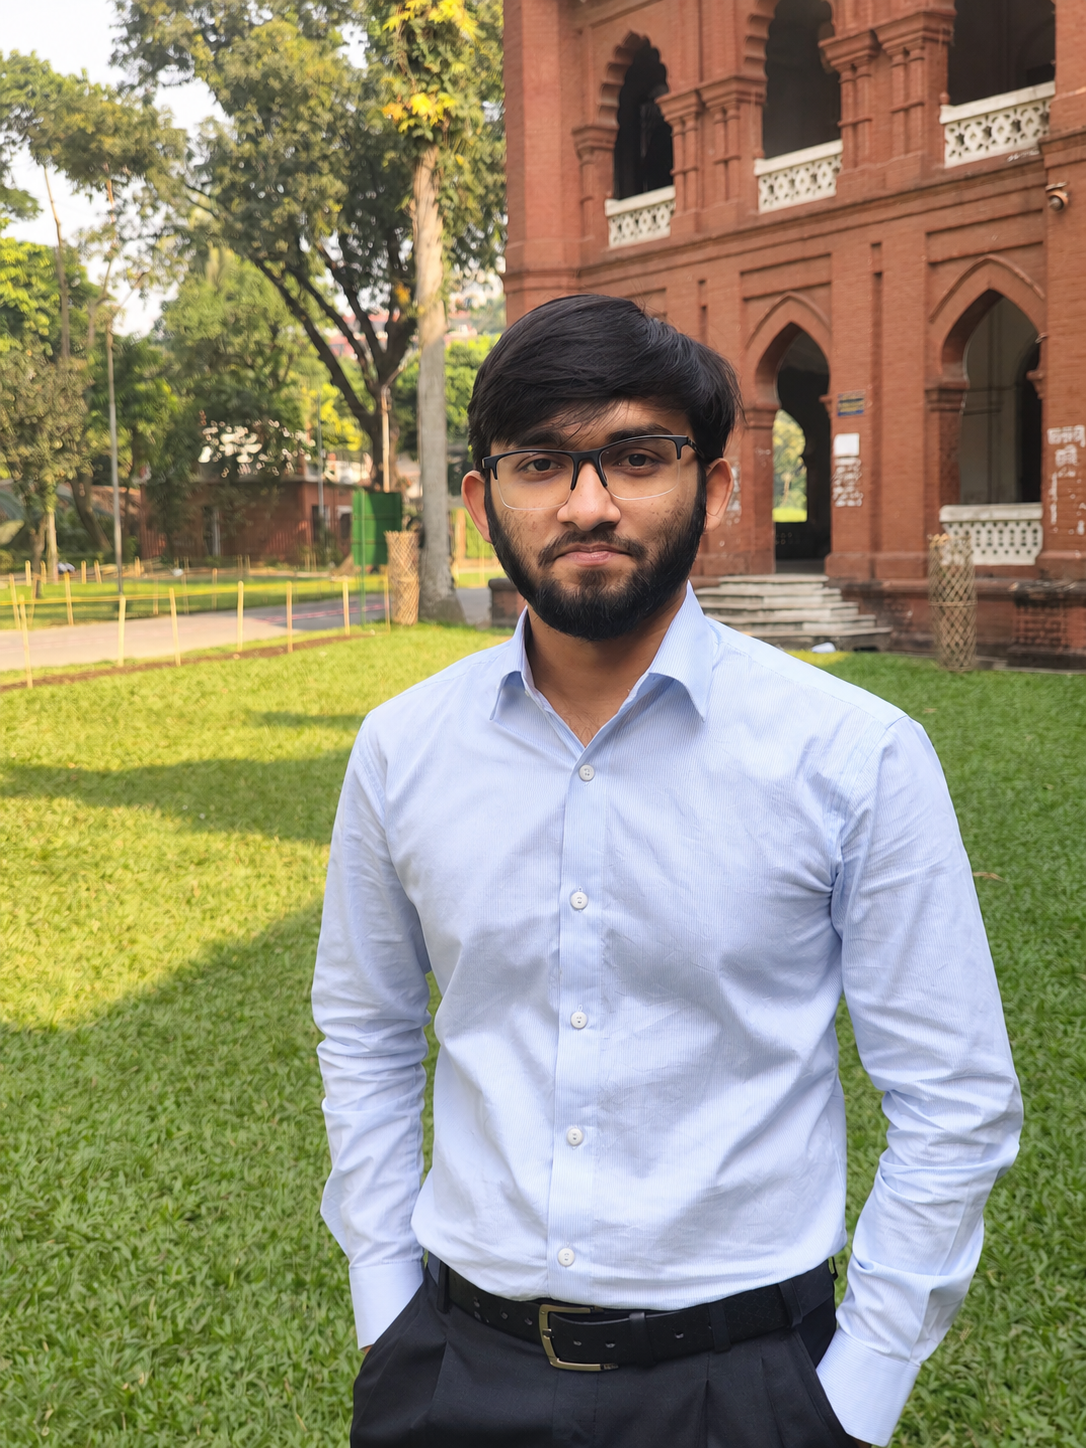
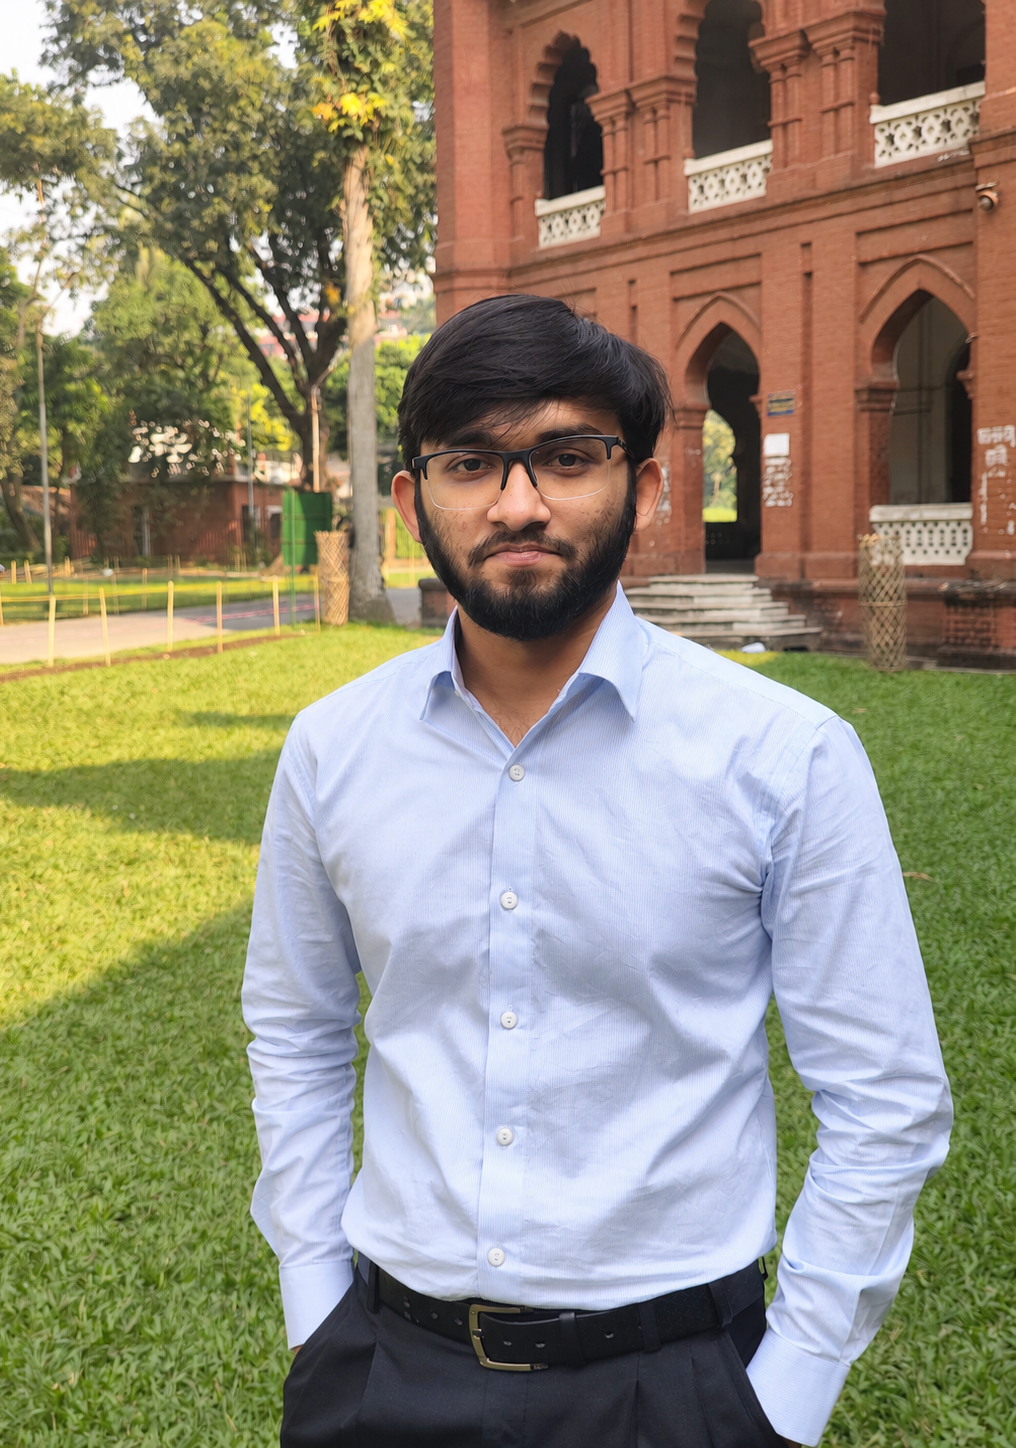
Update hero copy, stats, about section, research cards, team emails, footer

diff --git a/templates/index.html b/templates/index.html
@@ -142,9 +142,9 @@
       <h1>Search Double Perovskite Materials Instantly</h1>
       <p class="hero__tagline">Discovering Tomorrow&rsquo;s Materials Today.</p>
       <p class="hero__lede">
-        AtomAI transforms complex materials data into actionable insights, enabling
-        researchers to explore, validate, and accelerate the discovery of
-        next-generation functional materials.
+        AtomAI uses advanced machine learning to predict material properties
+        before synthesis, helping researchers accelerate discovery while
+        reducing time, cost, and experimental effort.
       </p>
       <div class="hero__cta">
         <a href="#explorer" class="btn">Start Exploring &rarr;</a>
@@ -163,13 +163,13 @@
       </div>
       <div class="stat-card reveal">
         <span class="stat-card__icon"><svg viewBox="0 0 20 20" fill="none"><path d="M10 2L18 7V13L10 18L2 13V7L10 2Z" stroke="currentColor" stroke-width="1.2" stroke-linejoin="round"/></svg></span>
-        <span class="stat-card__num" data-target="3000" data-suffix="+">0</span>
-        <p>Known Double Perovskites</p>
+        <span class="stat-card__num" data-target="4000" data-suffix="+">0</span>
+        <p>Previously known DPOs</p>
       </div>
       <div class="stat-card reveal">
         <span class="stat-card__icon"><svg viewBox="0 0 20 20" fill="none"><rect x="3" y="3" width="14" height="14" rx="3" stroke="currentColor" stroke-width="1.2"/><circle cx="7" cy="7" r="1.1" fill="currentColor"/><circle cx="13" cy="7" r="1.1" fill="currentColor"/><circle cx="7" cy="13" r="1.1" fill="currentColor"/><circle cx="13" cy="13" r="1.1" fill="currentColor"/></svg></span>
-        <span class="stat-card__num" data-target="500" data-suffix="k+">0</span>
-        <p>Predicted Double Perovskite Oxides</p>
+        <span class="stat-card__num" data-target="530" data-suffix="K+">0</span>
+        <p>Predicted DPOs</p>
       </div>
       <div class="stat-card reveal">
         <span class="stat-card__icon"><svg viewBox="0 0 20 20" fill="none"><path d="M4 12L8.5 16.5L17 5" stroke="currentColor" stroke-width="1.6" stroke-linecap="round" stroke-linejoin="round"/></svg></span>
@@ -372,24 +372,27 @@
         <svg viewBox="0 0 20 20" fill="none"><circle cx="10" cy="10" r="2.2" fill="currentColor"/><ellipse cx="10" cy="10" rx="8.5" ry="3.4" stroke="currentColor" stroke-width="1.2"/><ellipse cx="10" cy="10" rx="8.5" ry="3.4" stroke="currentColor" stroke-width="1.2" transform="rotate(60 10 10)"/><ellipse cx="10" cy="10" rx="8.5" ry="3.4" stroke="currentColor" stroke-width="1.2" transform="rotate(120 10 10)"/></svg>
         About AtomAI
       </p>
-      <h2>An AI-driven search engine for materials that don&rsquo;t exist yet.</h2>
-      <p>AtomAI isn&rsquo;t a static database like Materials Project &mdash; it&rsquo;s a screening engine. XGBoost and Random Forest models rank millions of A&#x2082;BB&#x2032;O&#x2086; compositions for stability and band gap, and DFT validates the most promising candidates before synthesis.</p>
-      <p>This explorer is the first public interface to that pipeline: type in four elements, and AtomAI tells you whether a Double Perovskite Oxide is known, predicted, or doesn&rsquo;t exist in the current search space &mdash; and why.</p>
+      <h2>Search Beyond Existing Materials</h2>
+      <p>AtomAI goes beyond traditional materials databases by predicting new Double Perovskite Oxides using AI. Machine learning rapidly screens millions of compositions, while DFT validates the most promising candidates before synthesis.</p>
     </div>
     <div class="split__visual reveal">
       <div class="pipeline">
         <div class="pipeline__line"></div>
         <div class="pipeline__step">
           <span class="pipeline__icon"><svg viewBox="0 0 20 20" fill="none"><rect x="3" y="3" width="14" height="14" rx="3" stroke="currentColor" stroke-width="1.4"/><circle cx="7" cy="7" r="1.2" fill="currentColor"/><circle cx="13" cy="7" r="1.2" fill="currentColor"/><circle cx="7" cy="13" r="1.2" fill="currentColor"/><circle cx="13" cy="13" r="1.2" fill="currentColor"/><path d="M7 7L13 13M13 7L7 13" stroke="currentColor" stroke-width="1"/></svg></span>
-          <div><b>01 &middot; ML Screening</b><small>~5.2M compositions &rarr; candidates</small></div>
+          <div><b>01 &middot; AI-Based Property Prediction</b><small>Predict stability, bandgap, and photocatalytic activity of double perovskite materials using machine learning.</small></div>
         </div>
         <div class="pipeline__step">
           <span class="pipeline__icon"><svg viewBox="0 0 20 20" fill="none"><path d="M10 3L17 7V13L10 17L3 13V7L10 3Z" stroke="currentColor" stroke-width="1.4" stroke-linejoin="round"/></svg></span>
-          <div><b>02 &middot; DFT Validation</b><small>Stability &amp; electronic structure</small></div>
+          <div><b>02 &middot; Curated Materials Database</b><small>Organize validated predictions into a structured, searchable database for rapid access and comparison.</small></div>
         </div>
         <div class="pipeline__step">
-          <span class="pipeline__icon"><svg viewBox="0 0 20 20" fill="none"><path d="M7 3H13V7L16 15C16.5 16.2 15.6 17.5 14.3 17.5H5.7C4.4 17.5 3.5 16.2 4 15L7 7V3Z" stroke="currentColor" stroke-width="1.4" stroke-linejoin="round"/><path d="M6 12H14" stroke="currentColor" stroke-width="1.2"/></svg></span>
-          <div><b>03 &middot; Synthesis &amp; XRD</b><small>Sol-gel, characterization</small></div>
+          <span class="pipeline__icon"><svg viewBox="0 0 20 20" fill="none"><circle cx="9" cy="9" r="6" stroke="currentColor" stroke-width="1.4"/><path d="M13.5 13.5L17.5 17.5" stroke="currentColor" stroke-width="1.4" stroke-linecap="round"/></svg></span>
+          <div><b>03 &middot; Interactive Search Platform</b><small>Search and explore materials by composition, predicted properties, and AI insights through an intuitive interface.</small></div>
+        </div>
+        <div class="pipeline__step">
+          <span class="pipeline__icon"><svg viewBox="0 0 20 20" fill="none"><path d="M10 2L11.8 7.2L17 9L11.8 10.8L10 16L8.2 10.8L3 9L8.2 7.2L10 2Z" stroke="currentColor" stroke-width="1.2" stroke-linejoin="round"/></svg></span>
+          <div><b>04 &middot; New Materials Discovery</b><small>Identify promising, previously unexplored double perovskite candidates for DFT validation and experimental synthesis.</small></div>
         </div>
       </div>
     </div>
@@ -406,24 +409,24 @@
     </div>
     <div class="research-grid">
       <div class="research-card reveal">
-        <span class="research-card__icon"><svg viewBox="0 0 24 24" fill="none"><path d="M9 3H15V8L19.5 17C20.1 18.3 19.1 20 17.7 20H6.3C4.9 20 3.9 18.3 4.5 17L9 8V3Z" stroke="currentColor" stroke-width="1.5" stroke-linejoin="round"/><path d="M7.5 14H16.5" stroke="currentColor" stroke-width="1.4"/></svg></span>
+        <span class="research-card__icon"><svg viewBox="0 0 24 24" fill="none"><rect x="4" y="4" width="16" height="16" rx="2.5" stroke="currentColor" stroke-width="1.5"/><path d="M4 9.5H20M9 4V20" stroke="currentColor" stroke-width="1.3"/></svg></span>
+        <h3>Intelligent Materials Database</h3>
+        <p>Access a curated database of experimental and AI-predicted double perovskite materials for rapid exploration and analysis.</p>
+      </div>
+      <div class="research-card reveal">
+        <span class="research-card__icon"><svg viewBox="0 0 24 24" fill="none"><path d="M12 2L14.2 8.8L21 11L14.2 13.2L12 20L9.8 13.2L3 11L9.8 8.8L12 2Z" stroke="currentColor" stroke-width="1.4" stroke-linejoin="round"/></svg></span>
+        <h3>Novel Materials Discovery</h3>
+        <p>Discover promising new double perovskite materials using AI-guided property prediction.</p>
+      </div>
+      <div class="research-card reveal">
+        <span class="research-card__icon"><svg viewBox="0 0 24 24" fill="none"><circle cx="12" cy="12" r="9" stroke="currentColor" stroke-width="1.5"/><path d="M3 12H21M12 3C14.5 5.7 15.8 8.7 15.8 12C15.8 15.3 14.5 18.3 12 21C9.5 18.3 8.2 15.3 8.2 12C8.2 8.7 9.5 5.7 12 3Z" stroke="currentColor" stroke-width="1.2"/></svg></span>
         <h3>Environmental Remediation</h3>
-        <p>Screening DPO photocatalysts for dye and antibiotic degradation under visible light, guided by predicted band gaps and band alignment.</p>
+        <p>Develop efficient photocatalysts for wastewater treatment and pollutant degradation.</p>
       </div>
       <div class="research-card reveal">
         <span class="research-card__icon"><svg viewBox="0 0 24 24" fill="none"><path d="M13 2L4 14H11L10 22L20 9H13L13 2Z" stroke="currentColor" stroke-width="1.5" stroke-linejoin="round"/></svg></span>
-        <h3>Green Hydrogen</h3>
-        <p>Identifying photoelectrochemical water-splitting candidates ranked by predicted stability and band gap.</p>
-      </div>
-      <div class="research-card reveal">
-        <span class="research-card__icon"><svg viewBox="0 0 24 24" fill="none"><circle cx="12" cy="12" r="3.2" stroke="currentColor" stroke-width="1.5"/><circle cx="4.5" cy="6" r="1.6" stroke="currentColor" stroke-width="1.4"/><circle cx="19.5" cy="6" r="1.6" stroke="currentColor" stroke-width="1.4"/><circle cx="4.5" cy="18" r="1.6" stroke="currentColor" stroke-width="1.4"/><circle cx="19.5" cy="18" r="1.6" stroke="currentColor" stroke-width="1.4"/><path d="M6 7L10 10.5M18 7L14 10.5M6 17L10 13.5M18 17L14 13.5" stroke="currentColor" stroke-width="1.2"/></svg></span>
-        <h3>ML Prediction</h3>
-        <p>XGBoost and Random Forest models screen millions of compositions, ranking candidates by predicted stability and band gap before any synthesis begins.</p>
-      </div>
-      <div class="research-card reveal">
-        <span class="research-card__icon"><svg viewBox="0 0 24 24" fill="none"><path d="M4 12L9.5 17.5L20 6" stroke="currentColor" stroke-width="1.8" stroke-linecap="round" stroke-linejoin="round"/></svg></span>
-        <h3>Experimental Validation</h3>
-        <p>DFT calculations and lab characterization &mdash; XRD, Raman, UV-Vis, FESEM, XPS &mdash; confirm that predicted materials perform as expected in reality.</p>
+        <h3>Clean Energy Production</h3>
+        <p>Identify advanced materials for solar hydrogen generation and sustainable energy technologies.</p>
       </div>
     </div>
   </section>
@@ -476,14 +479,14 @@
         <h3>Durjoy</h3>
         <p class="team-card__role">Researcher &middot; ML &amp; Materials Discovery</p>
         <p class="team-card__dept">Electrical &amp; Electronic Engineering<br>University of Dhaka</p>
-        <span class="team-card__lab">MSRL</span>
+        <a class="team-card__lab" href="mailto:[email redacted]">[email redacted]</a>
       </div>
       <div class="team-card reveal">
         <img class="team-card__photo" src="{{ url_for('static', filename='Usama.png') }}" alt="Usama Bin Sehab">
         <h3>Usama Bin Sehab</h3>
         <p class="team-card__role">Researcher &middot; DFT &amp; Materials Discovery</p>
         <p class="team-card__dept">Electrical &amp; Electronic Engineering<br>University of Dhaka</p>
-        <span class="team-card__lab">MSRL</span>
+        <a class="team-card__lab" href="mailto:[email redacted]">[email redacted]</a>
       </div>
     </div>
 
@@ -512,14 +515,12 @@
       <img src="{{ url_for('static', filename='logo.png') }}" alt="AtomAI logo">
       <div>
         <strong>AtomAI</strong>
-        <span>Discovering Tomorrow&rsquo;s Materials Today</span>
+        <span>AI-Driven Materials Discovery Platform</span>
       </div>
     </div>
     <div class="footer__meta">
       <span>University of Dhaka</span>
       <span>Materials Science Research Laboratory</span>
-      <a href="#" onclick="return false;">GitHub</a>
-      <a href="#" onclick="return false;">Email</a>
     </div>
     <span class="footer__copy">&copy; 2026 AtomAI</span>
   </div>

diff --git a/static/style.css b/static/style.css
@@ -254,9 +254,7 @@ small { font-weight: 400; }
   right: 0;
   top: calc(100% + 10px);
   width: 268px;
-  background: var(--surface);
-  backdrop-filter: blur(16px);
-  -webkit-backdrop-filter: blur(16px);
+  background: var(--surface-solid);
   border: 1px solid var(--line-strong);
   border-radius: var(--radius-sm);
   box-shadow: var(--shadow-lg);
@@ -1041,14 +1039,20 @@ section { padding: 68px 32px; }
 .team-card__dept { font-size: 13px; margin-bottom: 12px; }
 .team-card__lab {
   display: inline-block;
-  font-size: 11px;
-  font-weight: 700;
-  letter-spacing: 0.04em;
+  max-width: 100%;
+  font-size: 12px;
+  font-weight: 600;
+  letter-spacing: 0;
   color: var(--ink-soft);
   background: var(--surface-alt);
-  padding: 4px 10px;
+  padding: 5px 12px;
   border-radius: 999px;
+  text-decoration: none;
+  word-break: break-all;
+  transition: color 0.15s ease, border-color 0.15s ease;
+  border: 1px solid transparent;
 }
+.team-card__lab:hover { color: var(--accent-ink); border-color: var(--accent); }
 
 .lab-collab {
   max-width: 560px;
@@ -1066,11 +1070,11 @@ section { padding: 68px 32px; }
 .lab-collab__logo {
   display: block;
   margin: 4px auto 20px;
-  max-width: 220px;
+  max-width: 140px;
   height: auto;
   background: #F4F6FA;
   border-radius: 12px;
-  padding: 14px 18px;
+  padding: 10px 14px;
 }
 .lab-collab p { font-size: 14.5px; margin-bottom: 18px; }
 